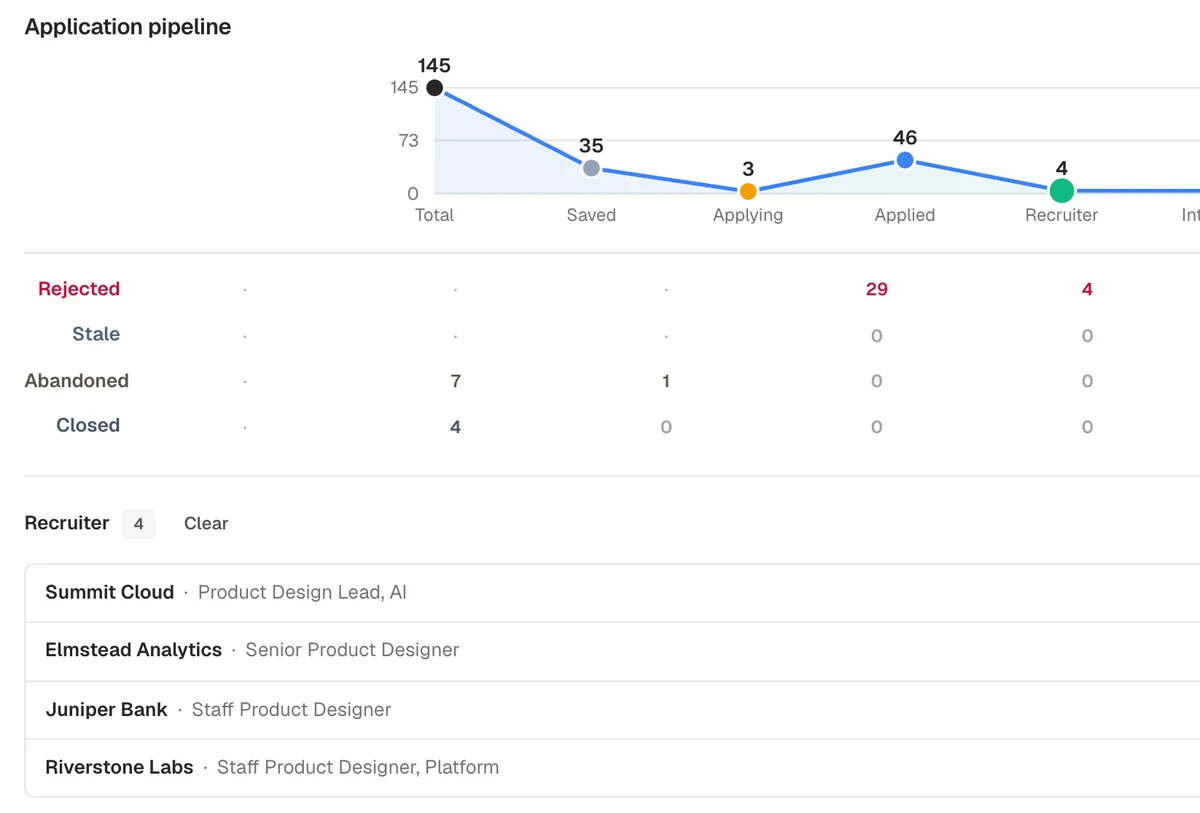
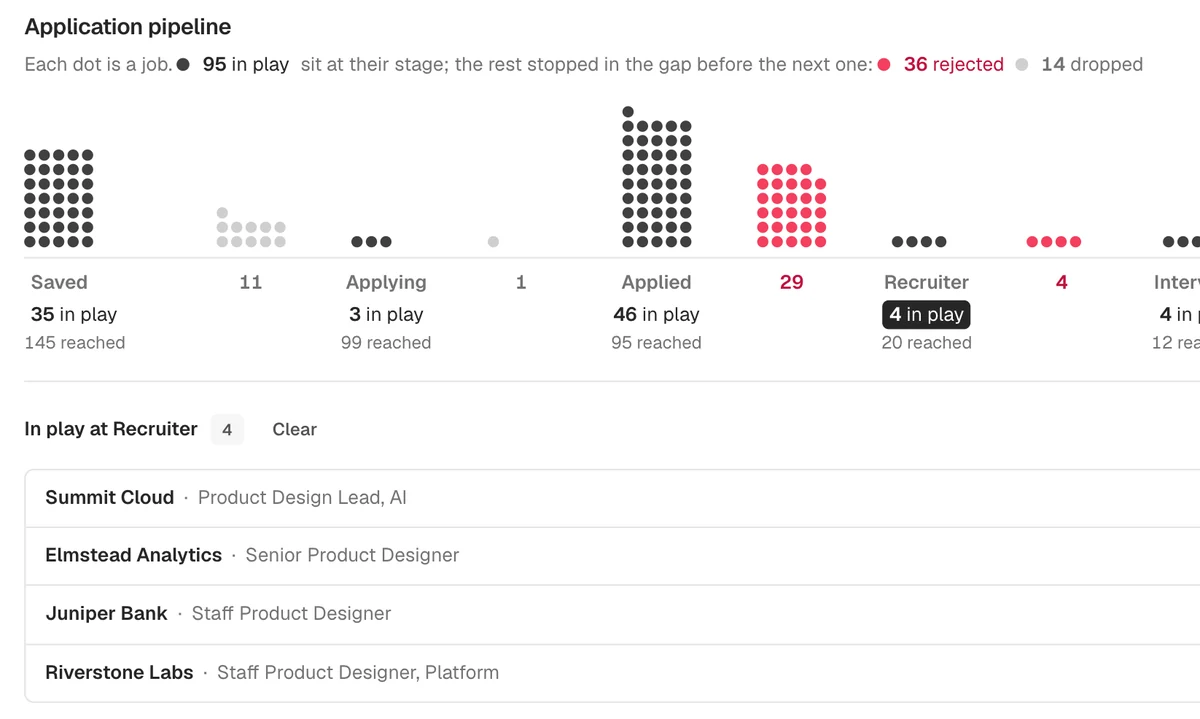
Retake the landing pipeline screenshots in the dot layout
The drill-down shots now click "in play at Recruiter" instead of the
Recruiter label, which selects everyone who reached the stage.

diff --git a/src/components/LandingPage.tsx b/src/components/LandingPage.tsx
@@ -136,7 +136,7 @@ function FeatureSection({
 
 const SHOTS = {
   dashboard: { src: "/hero/pipeline-dashboard.webp", alt: "Explore workspace listing saved roles with location, salary, fit score, and status, beside a preview of the selected posting.", width: 2400, height: 1178, mobile: { src: "/hero/pipeline-dashboard-mobile.webp", width: 1200, height: 1290 } },
-  drilldown: { src: "/hero/pipeline-drilldown.webp", alt: "Applications at the recruiter stage, with each role's progress through earlier stages.", width: 2040, height: 935, mobile: { src: "/hero/pipeline-drilldown-mobile.webp", width: 1200, height: 813 } },
+  drilldown: { src: "/hero/pipeline-drilldown.webp", alt: "Applications at the recruiter stage, with each role's progress through earlier stages.", width: 2040, height: 846, mobile: { src: "/hero/pipeline-drilldown-mobile.webp", width: 1200, height: 719 } },
   clip: { src: "/hero/extension-clip.webp", alt: "Chrome side panel capturing a job's company, title, salary, and description from a careers page.", width: 2400, height: 1182, mobile: { src: "/hero/extension-clip-mobile.webp", width: 656, height: 1170 } },
   fitness: { src: "/hero/fitness-check.webp", alt: "Role-fit review with a 1–10 score and an explanation of how the candidate's experience relates to each requirement.", width: 1229, height: 1438, mobile: { src: "/hero/fitness-check-mobile.webp", width: 1200, height: 631 } },
   profile: { src: "/hero/candidate-profile.webp", alt: "Candidate profile containing experience and accomplishments, alongside gaps and context for future applications.", width: 1552, height: 1868, mobile: { src: "/hero/candidate-profile-mobile.webp", width: 1200, height: 749 } },
